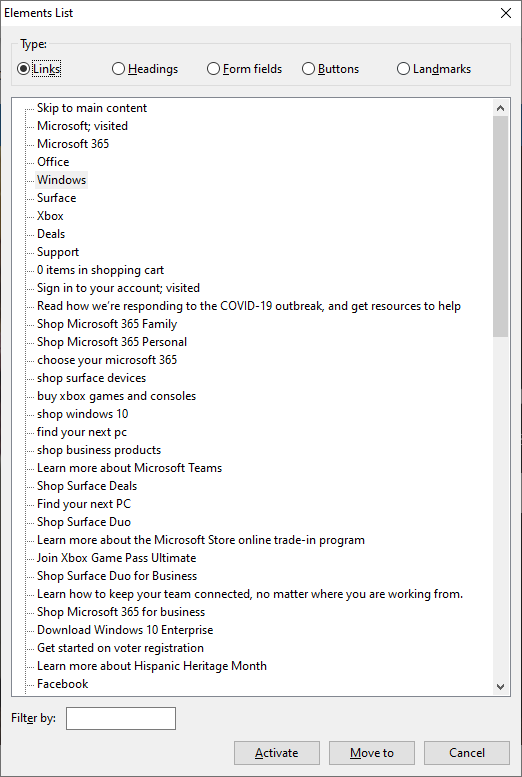
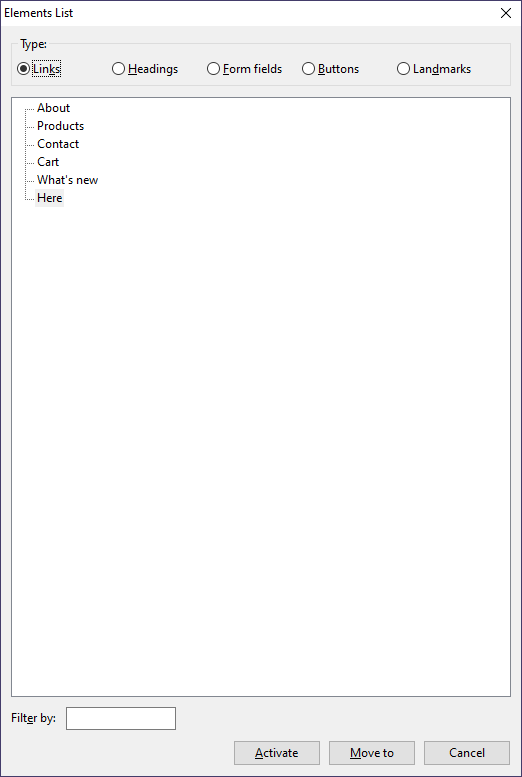
Update Blog “partial-links-are-inaccessible”

diff --git a/content/blog/partial-links-are-inaccessible.md b/content/blog/partial-links-are-inaccessible.md
@@ -27,9 +27,9 @@ While that may be okay for some, a user who uses some form of assistive technolo
 
 This is because some users may navigate a page through links. Maybe they’re trying to find a link that they’ve been to before, or some other scenario. When using a screen reader, you can navigate between landmarks, form elements, links, etc. When navigating through links, the example above would be listed as "here", without the context that precedes it.
 
-![NVDA Elements List, Links view](/img/nvda.png "Example of the \"Links\" view in NVDA Elements List.")
+![NVDA Elements List, Links view](/img/nvda.png)
 
-
+*Example of the "Links" view in [NVDA Screen Reader](https://www.nvaccess.org/) Elements List.*
 
 This is also listed as a success criteria for WCAG 2.1, that criteria being [Link Purpose 2.4.4](https://www.w3.org/WAI/WCAG21/Understanding/link-purpose-in-context.html).
 
